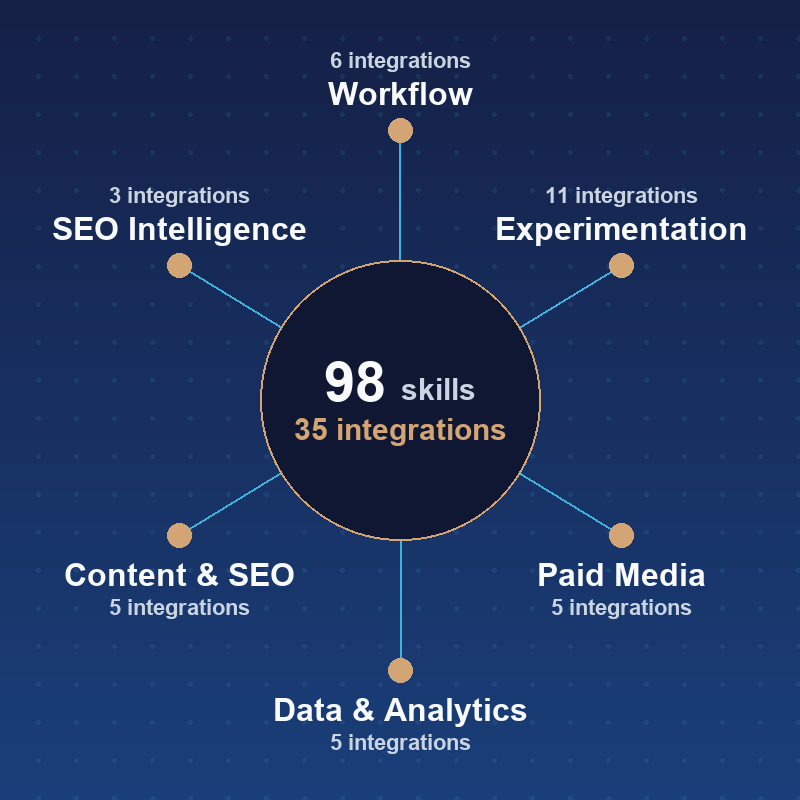
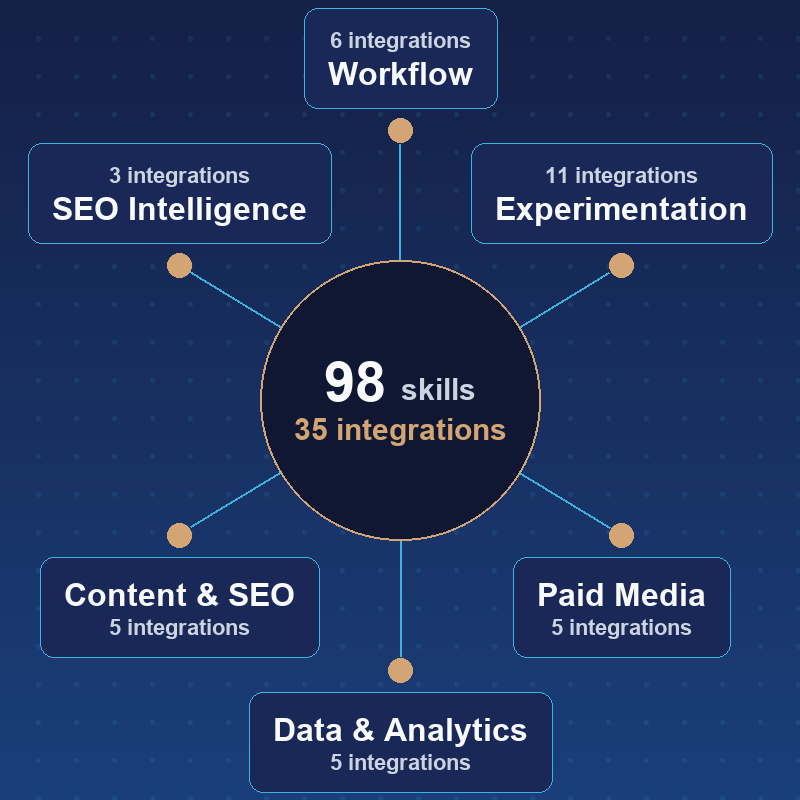
polish(docs): wrap architecture image categories in rounded corner boxes (#44)
Visual polish for the architecture diagram. With the readability-bump
typography, category text was reading as crowded near connection-line
endpoints. Wrapping each category cluster in a rounded rectangle
(navy fill at ~70% opacity, thin cyan border at ~24%, generous
padding) creates clear visual containment so neighboring categories
no longer appear to compete for the same space.

Connection lines now terminate just shy of the gold node dot, with
the dot floating between line endpoint and card edge nearest the
hub. Hub stays as the gold-ringed circle so its focal-element
character is preserved (shape distinct from the cards on its own).

Wide variant required a moderate typography reduction (label 36->28,
count 20->16, sample 18->14) to fit six cards inside the 1200x630
canvas without collisions; cards still scale up cleanly when the
image is viewed at full canvas resolution. Square variant got a
similar font reduction plus radius_y trimmed from 325 to 305 so the
top and bottom cards clear the chrome strips. Mobile variant uses
the smaller card paddings since its canvas is tightest.

Same content (no new variants, no README structure changes).

diff --git a/scripts/generate_architecture_image.py b/scripts/generate_architecture_image.py
@@ -61,6 +61,12 @@ INK = (248, 250, 252)            # near-white
 SLATE_LIGHT = (203, 213, 225)    # slate-300 for sub-headings
 SLATE_MUTED = (148, 163, 184)    # slate-400 for sample names
 
+# Card container per category. Subtle navy fill at ~70% opacity over the
+# gradient base, plus a thin cyan border at ~24% opacity. Strong enough
+# to read as visual containment without overpowering the brand register.
+CARD_FILL = (26, 40, 88, 178)
+CARD_BORDER = (59, 180, 224, 60)
+
 # Hub geometry. Tuned per variant in render_layout().
 HUB_RING_WIDTH = 2
 
@@ -93,6 +99,10 @@ class LayoutSpec:
     chrome_footer_size: int
     show_samples: bool = True   # mobile variant drops sample names for legibility
     show_chrome: bool = True    # mobile variant drops chrome to save vertical space
+    card_padding_x: int = 24    # horizontal padding inside category card
+    card_padding_y: int = 18    # vertical padding inside category card
+    card_radius: int = 14       # corner radius of category card
+    card_border_width: int = 1  # subtle 1px border on category card
 
 
 # Typography target: legibility at scaled-down README body width
@@ -108,16 +118,19 @@ WIDE_SPEC = LayoutSpec(
     hub_title_size=48,
     hub_sub_size=24,
     hub_label_size=24,
-    node_label_size=36,
-    node_count_size=20,
-    node_sample_size=18,
-    node_dot_radius=10,
-    text_offset=20,
-    line_gap=6,
+    node_label_size=28,
+    node_count_size=16,
+    node_sample_size=14,
+    node_dot_radius=8,
+    text_offset=16,
+    line_gap=5,
     header_y=28,
     footer_y=590,
     chrome_header_size=18,
     chrome_footer_size=20,
+    card_padding_x=22,
+    card_padding_y=14,
+    card_radius=14,
 )
 
 
@@ -125,21 +138,24 @@ SQUARE_SPEC = LayoutSpec(
     width=1080,
     height=1080,
     radius_x=355,
-    radius_y=325,
+    radius_y=305,
     hub_radius=130,
     hub_title_size=56,
     hub_sub_size=28,
     hub_label_size=28,
-    node_label_size=42,
-    node_count_size=24,
-    node_sample_size=20,
-    node_dot_radius=12,
-    text_offset=30,
-    line_gap=8,
+    node_label_size=36,
+    node_count_size=20,
+    node_sample_size=18,
+    node_dot_radius=11,
+    text_offset=26,
+    line_gap=7,
     header_y=44,
     footer_y=1014,
     chrome_header_size=22,
     chrome_footer_size=24,
+    card_padding_x=28,
+    card_padding_y=20,
+    card_radius=18,
 )
 
 
@@ -169,6 +185,9 @@ MOBILE_SPEC = LayoutSpec(
     chrome_footer_size=0,   # unused when show_chrome=False
     show_samples=False,
     show_chrome=False,
+    card_padding_x=24,
+    card_padding_y=20,
+    card_radius=14,
 )
 
 
@@ -323,12 +342,14 @@ def render_node(
     angle_deg: float,
     category: dict,
 ) -> None:
-    """One category node: gold dot, label, count, sample integrations.
+    """One category node: rounded card containing label, count, samples.
 
-    Text stacks above or below the node based on the node's vertical
-    position relative to the hub. Top half gets text above (samples
-    furthest from node); bottom half gets text below (samples furthest
-    from node, label nearest).
+    Card sits text_offset px outward from the node along the radial,
+    so the gold dot at the original node position floats between the
+    connection line endpoint and the card edge nearest the hub. Within
+    the card, rows stack so that the label is always closest to the
+    node (top of card when text below the node, bottom of card when
+    above), with counts in the middle and sample names farthest.
     """
     cx, cy = spec.width // 2, spec.height // 2
     angle_rad = math.radians(angle_deg)
@@ -336,75 +357,105 @@ def render_node(
     ny = cy + spec.radius_y * math.sin(angle_rad)
     nx_i, ny_i = int(round(nx)), int(round(ny))
 
-    # Connection line back to the hub. Drawn first so the dot covers
-    # the line endpoint cleanly.
+    label_font = font_bold(spec.node_label_size)
+    count_font = font_bold(spec.node_count_size)
+    label = category["label"]
+    count = f"{len(category['integrations'])} integrations"
+    label_w = text_width(draw, label, label_font)
+    count_w = text_width(draw, count, count_font)
+
+    sample_font: ImageFont.ImageFont | None = None
+    sample_text = ""
+    sample_w = 0
+    if spec.show_samples:
+        sample_font = font_bold(spec.node_sample_size)
+        samples = category["integrations"][:3]
+        extra = len(category["integrations"]) - 3
+        sample_text = ", ".join(samples) + (
+            f", +{extra} more" if extra > 0 else ""
+        )
+        sample_w = text_width(draw, sample_text, sample_font)
+
+    # Card geometry: width fits the widest row plus horizontal padding;
+    # height is the row stack plus vertical padding.
+    inner_w = max(label_w, count_w, sample_w)
+    rows_h = spec.node_label_size + spec.line_gap + spec.node_count_size
+    if spec.show_samples:
+        rows_h += spec.line_gap + spec.node_sample_size
+    card_w = inner_w + 2 * spec.card_padding_x
+    card_h = rows_h + 2 * spec.card_padding_y
+
+    text_above = math.sin(angle_rad) < 0
+    if text_above:
+        card_bottom = ny_i - spec.text_offset
+        card_top = card_bottom - card_h
+    else:
+        card_top = ny_i + spec.text_offset
+        card_bottom = card_top + card_h
+    card_left = nx_i - card_w // 2
+    card_right = card_left + card_w
+
+    # Connection line ends just shy of the gold node dot; the dot then
+    # sits between the line endpoint and the card edge nearest the hub.
+    dx = nx_i - cx
+    dy = ny_i - cy
+    distance = math.sqrt(dx * dx + dy * dy)
+    if distance > 0:
+        line_back = spec.node_dot_radius + 2
+        ratio = max(0.0, (distance - line_back) / distance)
+        line_end_x = cx + dx * ratio
+        line_end_y = cy + dy * ratio
+    else:
+        line_end_x, line_end_y = float(cx), float(cy)
     draw.line(
-        (cx, cy, nx_i, ny_i),
+        [(cx, cy), (line_end_x, line_end_y)],
         fill=(CYAN[0], CYAN[1], CYAN[2], 90),
         width=2,
     )
 
+    # Card backing: filled rounded rectangle with thin cyan outline.
+    draw.rounded_rectangle(
+        [(card_left, card_top), (card_right, card_bottom)],
+        radius=spec.card_radius,
+        fill=CARD_FILL,
+        outline=CARD_BORDER,
+        width=spec.card_border_width,
+    )
+
+    # Gold node dot at the original node position. Sits between the
+    # line endpoint and the card edge.
     r = spec.node_dot_radius
     draw.ellipse(
         (nx_i - r, ny_i - r, nx_i + r, ny_i + r),
         fill=ACCENT_GOLD,
     )
 
-    label_font = font_bold(spec.node_label_size)
-    count_font = font_bold(spec.node_count_size)
-
-    label = category["label"]
-    count = f"{len(category['integrations'])} integrations"
-
-    label_w = text_width(draw, label, label_font)
-    count_w = text_width(draw, count, count_font)
-
-    text_above = math.sin(angle_rad) < 0
-
+    # Stack rows top-to-bottom inside the card. When text sits above
+    # the node the label is closest to the node, which means it ends
+    # up at the bottom of the card; reverse the stack accordingly.
+    rows: list[tuple[str, ImageFont.ImageFont, int, tuple, int]] = []
     if text_above:
-        # Text stacks upward from the node: label closest, then count,
-        # then (optionally) sample names. Walk the stack y-offsets.
-        label_y = ny_i - spec.text_offset - spec.node_label_size
-        count_y = label_y - spec.line_gap - spec.node_count_size
+        if spec.show_samples and sample_font is not None:
+            rows.append(
+                (sample_text, sample_font, sample_w, SLATE_MUTED, spec.node_sample_size)
+            )
+        rows.append((count, count_font, count_w, SLATE_LIGHT, spec.node_count_size))
+        rows.append((label, label_font, label_w, INK, spec.node_label_size))
     else:
-        label_y = ny_i + spec.text_offset
-        count_y = label_y + spec.node_label_size + spec.line_gap
+        rows.append((label, label_font, label_w, INK, spec.node_label_size))
+        rows.append((count, count_font, count_w, SLATE_LIGHT, spec.node_count_size))
+        if spec.show_samples and sample_font is not None:
+            rows.append(
+                (sample_text, sample_font, sample_w, SLATE_MUTED, spec.node_sample_size)
+            )
 
-    # Center each line on the node x-position.
-    draw.text(
-        (nx_i - label_w // 2, label_y),
-        label,
-        fill=INK,
-        font=label_font,
-    )
-    draw.text(
-        (nx_i - count_w // 2, count_y),
-        count,
-        fill=SLATE_LIGHT,
-        font=count_font,
-    )
-
-    if not spec.show_samples:
-        return
-
-    sample_font = font_bold(spec.node_sample_size)
-    samples = category["integrations"][:3]
-    extra = len(category["integrations"]) - 3
-    if extra > 0:
-        sample_text = ", ".join(samples) + f", +{extra} more"
-    else:
-        sample_text = ", ".join(samples)
-    sample_w = text_width(draw, sample_text, sample_font)
-    if text_above:
-        sample_y = count_y - spec.line_gap - spec.node_sample_size
-    else:
-        sample_y = count_y + spec.node_count_size + spec.line_gap
-    draw.text(
-        (nx_i - sample_w // 2, sample_y),
-        sample_text,
-        fill=SLATE_MUTED,
-        font=sample_font,
-    )
+    text_x = (card_left + card_right) // 2
+    y_cursor = card_top + spec.card_padding_y
+    for i, (txt, fnt, w, fill_color, sz) in enumerate(rows):
+        draw.text((text_x - w // 2, y_cursor), txt, fill=fill_color, font=fnt)
+        y_cursor += sz
+        if i < len(rows) - 1:
+            y_cursor += spec.line_gap
 
 
 def render_chrome(